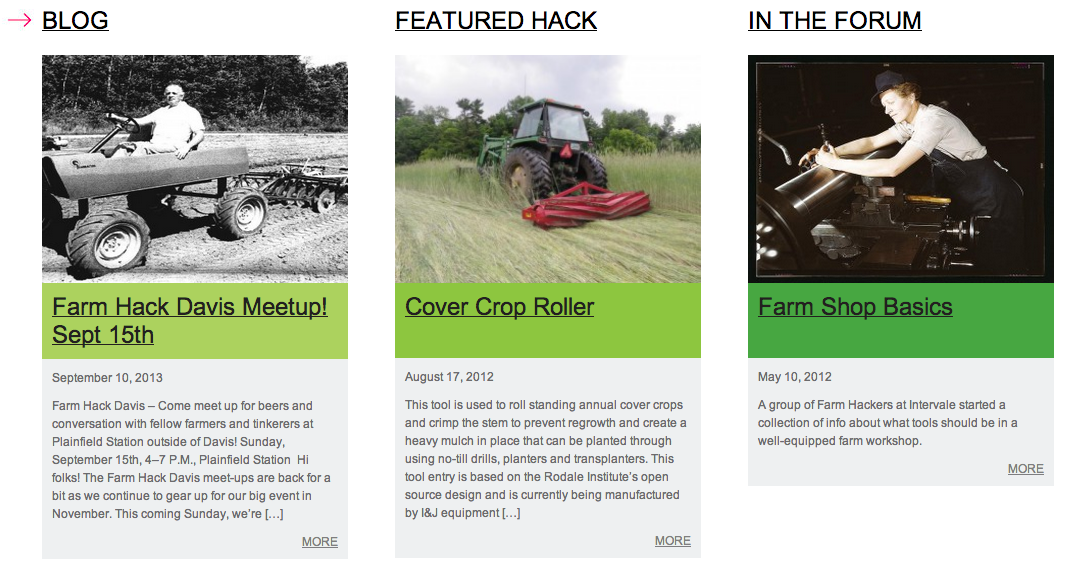
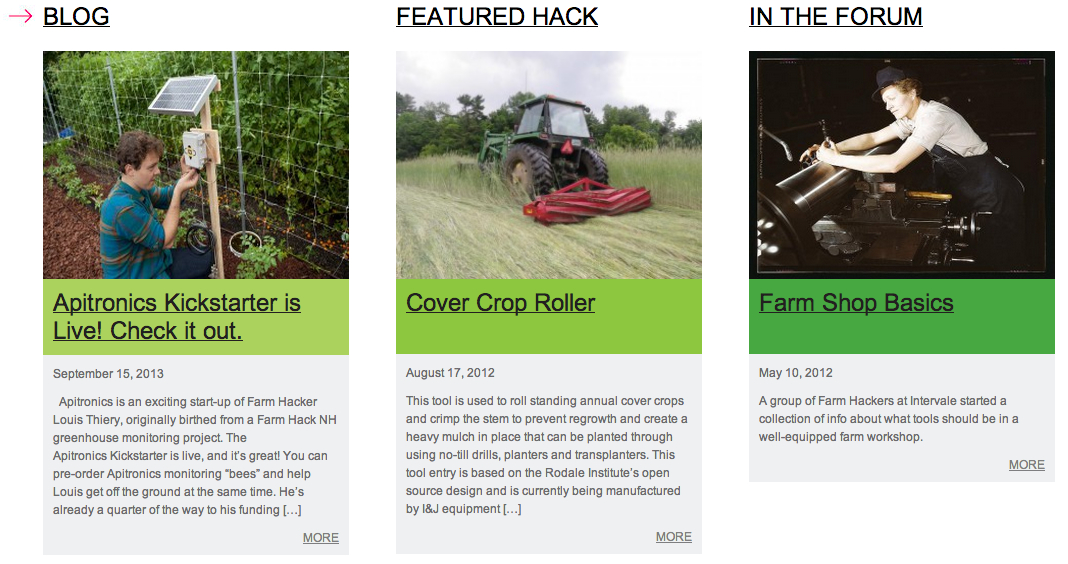
Blog and event updates

diff --git a/home/index.html b/home/index.html
@@ -107,9 +107,9 @@
 
 
 <div style="text-align:center; width:1086px; margin-left:auto; margin-right:auto;">
-<img id="Image-Maps_6201309151321496" src="http://www.image-maps.com/uploaded_files/6201309151321496_blog.png" usemap="#Image-Maps_6201309151321496" border="0" width="1086" height="571" alt="" />
+<img id="Image-Maps_6201309151321496" src="img/blog.png" usemap="#Image-Maps_6201309151321496" border="0" width="1086" height="571" alt="" />
 <map id="_Image-Maps_6201309151321496" name="Image-Maps_6201309151321496">
-<area shape="rect" coords="10,10,354,566" href="http://www.youngfarmers.org/farm-hack-davis-meetup-sept-15th/" alt="blog" title="blog"    />
+<area shape="rect" coords="10,10,354,566" href="http://www.youngfarmers.org/apitronics-kickstarter-live-check/" alt="blog" title="blog"    />
 <area shape="rect" coords="376,4,720,560" href="http://www.farmhack.net/tools/cover-crop-roller" alt="hack" title="hack"    />
 <area shape="rect" coords="730,8,1074,564" href="http://www.farmhack.net/forums/farm-shop-basics" alt="forum" title="forum"    />
 <area shape="rect" coords="1084,569,1086,571" href="http://www.image-maps.com/index.php?aff=mapped_users_6201309151321496" alt="Image Map" title="Image Map" />
